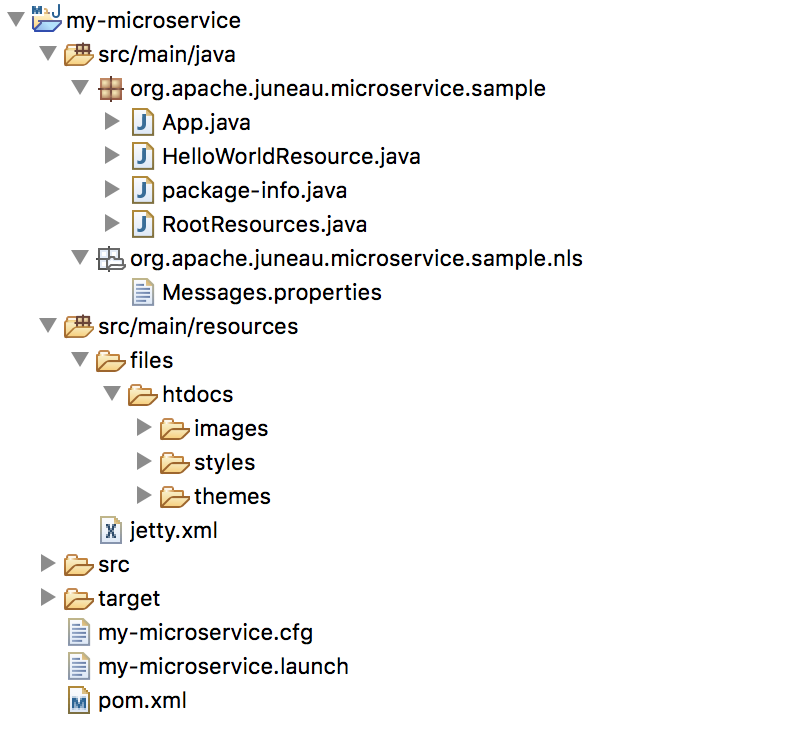
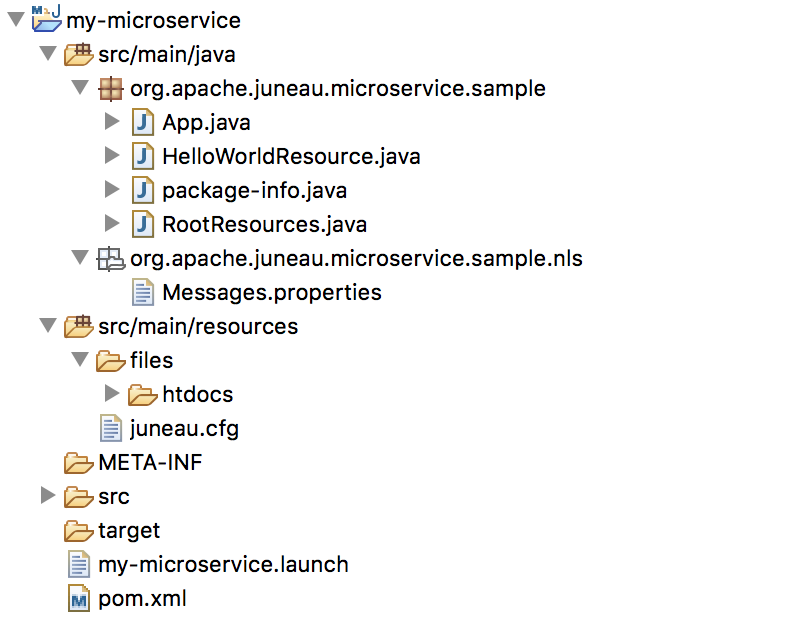
Rename @JuneauRest to @JuneauRestRoot and Javadocs.

Changed region(s): [[0.0, 0.0, 0.75, 1.0]]

diff --git a/juneau-doc/src/main/javadoc/overview.html b/juneau-doc/src/main/javadoc/overview.html
@@ -449,7 +449,7 @@
 	</ol>
 	<li><p class='todo'><a class='doclink' href='#juneau-examples-rest-springboot'>juneau-examples-rest-springboot</a></p>
 	<ol>
-		<li><p class='new'><a class='doclink' href='#juneau-examples-rest-springboot.Classes'>Classes</a></p>
+		<li><p class='todo'><a class='doclink' href='#juneau-examples-rest-springboot.Classes'>Classes</a></p>
 		<li><p class='todo'><a class='doclink' href='#juneau-examples-rest-springboot.DeployingToHeroku'>Deploying to Heroku</a></p>
 	</ol>
 	<li><p class='toc2'><a class='doclink' href='#Security'>Security Best-Practices</a></p>
@@ -21408,13 +21408,13 @@
 	The Juneau integration component for Spring Boot consists of the following classes:
 </p>
 <ul class='doctree'>
-	<li class='ja'>{@link org.apache.juneau.rest.springboot.annotation.JuneauRest}
+	<li class='ja'>{@link org.apache.juneau.rest.springboot.annotation.JuneauRestRoot}
 	<li class='jc'>{@link org.apache.juneau.rest.springboot.JuneauRestInitializer}
 	<li class='jc'>{@link org.apache.juneau.rest.springboot.SpringRestResourceResolver}
 </ul>
 <p>
 	A typical Spring Boot application can use the {@link org.apache.juneau.rest.springboot.JuneauRestInitializer} to find
-	and register Juneau REST servlets via the {@link org.apache.juneau.rest.springboot.annotation.JuneauRest} annotation.
+	and register Juneau REST servlets via the {@link org.apache.juneau.rest.springboot.annotation.JuneauRestRoot} annotation.
 </p>
 <h5 class='figure'>Example:</h5>
 <p class='bpcode w800'>
@@ -21429,23 +21429,23 @@
 		}
 	
 		<jd>/** Our root resource */</jd>
-		<ja>@Bean @JuneauRest</ja>
+		<ja>@Bean @JuneauRestRoot</ja>
 		<jk>public</jk> RootResource getRootResource() {
 			<jk>return new</jk> RootResource();  <jc>// A subclass of RestServlet.</jc>
 		}
 	}
 </p>
 <p>
-	The initializer will search for Spring beans annotated with the <ja>@JuneauRest</ja> annotation identifying it
+	The initializer will search for Spring beans annotated with the <ja>@JuneauRestRoot</ja> annotation identifying it
 	as a top-level servlet to be deployed in the Spring Boot web container.
 </p>
 <p>
-	Another option is to use the <ja>@JuneauRest</ja> annotation on your Spring Boot source class like so:  
+	Another option is to use the <ja>@JuneauRestRoot</ja> annotation on your Spring Boot source class like so:  
 </p>
 <p class='bpcode w800'>
 	<ja>@SpringBootApplication</ja>
 	<ja>@Controller</ja>
-	<ja>@JuneauRest</ja>(servlets=RootResource.<jk>class</jk>)
+	<ja>@JuneauRestRoot</ja>(servlets=RootResource.<jk>class</jk>)
 	<jk>public class</jk> App {
 	
 		<jk>public static void</jk> main(String[] args) {
@@ -25496,7 +25496,9 @@
 	<li>
 		<l>App.java</l> - The entry point. 
 		<br>This class creates and starts our microservice.
-		<br>Note that we're using the existing Spring Boot application logic for the microservice.
+		<br>Note that we're using the existing Spring Boot application logic for the microservice and we're retrieving
+		our root resource as a spring bean.
+		<br>Only the top-level resource needs to be annotated with {@link org.apache.juneau.microservice.springboot.annotation.JuneauRestRoot @JuneauRestRoot}
 		<br><br>
 		<p class='bcode w800'>
 	<ja>@SpringBootApplication</ja>
@@ -25509,7 +25511,7 @@
 				.run(args);
 		}
 	
-		<ja>@Bean @JuneauRest</ja>
+		<ja>@Bean @JuneauRestRoot</ja>
 		<jk>public</jk> RootResources getRootResources() {
 			<jk>return new</jk> RootResources();
 		}
@@ -25545,10 +25547,11 @@
 	}
 		</p>
 	<li>
-		<l>my-microservice.cfg</l> - The external configuration file. 
+		<l>juneau.cfg</l> - The configuration file. 
 		<br>Contains various useful settings.
 		<br>Can be used for your own resource configurations.
 		<br>Note that the Jetty configuration is not present.
+		<br>Also it's located in the classpath so that our microservice can be built as a single executable jar. 
 		<br><br>
 		<p class='bcode w800'>
 	<cc>#=======================================================================================================================
@@ -27864,7 +27867,7 @@
 
 <!-- ==================================================================================================== -->
 
-<h3 class='topic new' onclick='toggle(this)'><a href='#juneau-examples-rest-springboot.Classes' id='juneau-examples-rest-springboot.Classes'>18.1 - Classes</a></h3>
+<h3 class='topic todo' onclick='toggle(this)'><a href='#juneau-examples-rest-springboot.Classes' id='juneau-examples-rest-springboot.Classes'>18.1 - Classes</a></h3>
 <div class='topic'><!-- START: 18.1 - juneau-examples-rest-springboot.Classes -->
 <p>
 	The <code>juneau-examples-rest-springboot</code> project contains the same classes as found in <code>juneau-examples-rest</code>

diff --git a/juneau-doc/docs/Topics/09.juneau-rest-server-springboot/01.Overview.html b/juneau-doc/docs/Topics/09.juneau-rest-server-springboot/01.Overview.html
@@ -19,13 +19,13 @@
 	The Juneau integration component for Spring Boot consists of the following classes:
 </p>
 <ul class='doctree'>
-	<li class='ja'>{@link oajr.springboot.annotation.JuneauRest}
+	<li class='ja'>{@link oajr.springboot.annotation.JuneauRestRoot}
 	<li class='jc'>{@link oajr.springboot.JuneauRestInitializer}
 	<li class='jc'>{@link oajr.springboot.SpringRestResourceResolver}
 </ul>
 <p>
 	A typical Spring Boot application can use the {@link oajr.springboot.JuneauRestInitializer} to find
-	and register Juneau REST servlets via the {@link oajr.springboot.annotation.JuneauRest} annotation.
+	and register Juneau REST servlets via the {@link oajr.springboot.annotation.JuneauRestRoot} annotation.
 </p>
 <h5 class='figure'>Example:</h5>
 <p class='bpcode w800'>
@@ -40,23 +40,23 @@
 		}
 	
 		<jd>/** Our root resource */</jd>
-		<ja>@Bean @JuneauRest</ja>
+		<ja>@Bean @JuneauRestRoot</ja>
 		<jk>public</jk> RootResource getRootResource() {
 			<jk>return new</jk> RootResource();  <jc>// A subclass of RestServlet.</jc>
 		}
 	}
 </p>
 <p>
-	The initializer will search for Spring beans annotated with the <ja>@JuneauRest</ja> annotation identifying it
+	The initializer will search for Spring beans annotated with the <ja>@JuneauRestRoot</ja> annotation identifying it
 	as a top-level servlet to be deployed in the Spring Boot web container.
 </p>
 <p>
-	Another option is to use the <ja>@JuneauRest</ja> annotation on your Spring Boot source class like so:  
+	Another option is to use the <ja>@JuneauRestRoot</ja> annotation on your Spring Boot source class like so:  
 </p>
 <p class='bpcode w800'>
 	<ja>@SpringBootApplication</ja>
 	<ja>@Controller</ja>
-	<ja>@JuneauRest</ja>(servlets=RootResource.<jk>class</jk>)
+	<ja>@JuneauRestRoot</ja>(servlets=RootResource.<jk>class</jk>)
 	<jk>public class</jk> App {
 	
 		<jk>public static void</jk> main(String[] args) {

diff --git a/juneau-doc/docs/Topics/14.juneau-microservice-springboot-template/02.Running.html b/juneau-doc/docs/Topics/14.juneau-microservice-springboot-template/02.Running.html
@@ -13,7 +13,7 @@
  ***************************************************************************************************************************/
  -->
 
-{todo} Running in Eclipse
+{new} Running in Eclipse
 
 <p>
 	The <l>my-microservice.launch</l> file is already provided to allow you to quickly start
@@ -24,16 +24,26 @@
 	<br>In your console view, you should see the following output:
 </p>
 <p class='bpcode w800'>
-	TODO
+	  .   ____          _            __ _ _
+	 /\\ / ___'_ __ _ _(_)_ __  __ _ \ \ \ \
+	( ( )\___ | '_ | '_| | '_ \/ _` | \ \ \ \
+	 \\/  ___)| |_)| | | | | || (_| |  ) ) ) )
+	  '  |____| .__|_| |_|_| |_\__, | / / / /
+	 =========|_|==============|___/=/_/_/_/
+	 :: Spring Boot ::        (v2.0.1.RELEASE)
+	...
+	INFO: Tomcat started on port(s): 8080 (http) with context path ''
+	Dec 21, 2012 12:30:00 AM org.springframework.boot.StartupInfoLogger logStarted
+	INFO: Started App in 1.999 seconds (JVM running for 2.999)
 </p>
 <p>
-	Now open your browser and point to <l>http://localhost:5000</l>.  
+	Now open your browser and point to <l>http://localhost:8080</l>.  
 	You should see the following:
 </p>
 <p class='bpcode w400'>
-	http://localhost:5000
+	http://localhost:8080
 </p>			
 <img class='bordered w400' src='doc-files/juneau-microservice-springboot-template.Running.1.png'>
 <p>
-	You have started a REST interface on port 5000.
+	You have started a REST interface on port 8080.
 </p>

diff --git a/juneau-doc/docs/Topics/14.juneau-microservice-springboot-template/01.Installing.html b/juneau-doc/docs/Topics/14.juneau-microservice-springboot-template/01.Installing.html
@@ -13,7 +13,7 @@
  ***************************************************************************************************************************/
  -->
 
-{todo} Installing in Eclipse
+{new} Installing in Eclipse
 
 <p>
 	Follow these instructions to create a new template project in Eclipse.
@@ -38,7 +38,9 @@
 	<li>
 		<l>App.java</l> - The entry point. 
 		<br>This class creates and starts our microservice.
-		<br>Note that we're using the existing Spring Boot application logic for the microservice.
+		<br>Note that we're using the existing Spring Boot application logic for the microservice and we're retrieving
+		our root resource as a spring bean.
+		<br>Only the top-level resource needs to be annotated with {@link oaj.microservice.springboot.annotation.JuneauRestRoot @JuneauRestRoot}
 		<br><br>
 		<p class='bcode w800'>
 	<ja>@SpringBootApplication</ja>
@@ -51,7 +53,7 @@
 				.run(args);
 		}
 	
-		<ja>@Bean @JuneauRest</ja>
+		<ja>@Bean @JuneauRestRoot</ja>
 		<jk>public</jk> RootResources getRootResources() {
 			<jk>return new</jk> RootResources();
 		}

diff --git a/juneau-doc/docs/Topics/14.juneau-microservice-springboot-template/03.Building.html b/juneau-doc/docs/Topics/14.juneau-microservice-springboot-template/03.Building.html
@@ -13,7 +13,7 @@
  ***************************************************************************************************************************/
  -->
 
-{todo} Building and Running from Command-Line
+{new} Building and Running from Command-Line
 
 <p>
 	The <l>pom.xml</l> file is a basic Maven build script for creating your microservice
@@ -41,5 +41,15 @@
 	You should see the following console output:
 </p>
 <p class='bpcode w800'>
-	TODO
+	  .   ____          _            __ _ _
+	 /\\ / ___'_ __ _ _(_)_ __  __ _ \ \ \ \
+	( ( )\___ | '_ | '_| | '_ \/ _` | \ \ \ \
+	 \\/  ___)| |_)| | | | | || (_| |  ) ) ) )
+	  '  |____| .__|_| |_|_| |_\__, | / / / /
+	 =========|_|==============|___/=/_/_/_/
+	 :: Spring Boot ::        (v2.0.1.RELEASE)
+	...
+	INFO: Tomcat started on port(s): 8080 (http) with context path ''
+	Dec 21, 2012 12:30:00 AM org.springframework.boot.StartupInfoLogger logStarted
+	INFO: Started App in 1.999 seconds (JVM running for 2.999)
 </p>

diff --git a/juneau-doc/src/main/javadoc/resources/fragments/toc.html b/juneau-doc/src/main/javadoc/resources/fragments/toc.html
@@ -392,7 +392,7 @@
 	</ol>
 	<li><p class='todo'><a class='doclink' href='{OVERVIEW_URL}#juneau-examples-rest-springboot'>juneau-examples-rest-springboot</a></p>
 	<ol>
-		<li><p class='new'><a class='doclink' href='{OVERVIEW_URL}#juneau-examples-rest-springboot.Classes'>Classes</a></p>
+		<li><p class='todo'><a class='doclink' href='{OVERVIEW_URL}#juneau-examples-rest-springboot.Classes'>Classes</a></p>
 		<li><p class='todo'><a class='doclink' href='{OVERVIEW_URL}#juneau-examples-rest-springboot.DeployingToHeroku'>Deploying to Heroku</a></p>
 	</ol>
 	<li><p class='toc2'><a class='doclink' href='{OVERVIEW_URL}#Security'>Security Best-Practices</a></p>

diff --git a/juneau-rest/juneau-rest-server-springboot/src/main/java/org/apache/juneau/rest/springboot/JuneauRestPostProcessor.java b/juneau-rest/juneau-rest-server-springboot/src/main/java/org/apache/juneau/rest/springboot/JuneauRestPostProcessor.java
@@ -28,7 +28,7 @@ import java.util.*;
 import javax.servlet.Servlet;
 
 /**
- * Processes the {@link JuneauRest} annotation on the Spring application class and <ja>@Bean</ja> methods.
+ * Processes the {@link JuneauRestRoot} annotation on the Spring application class and <ja>@Bean</ja> methods.
  */
 public class JuneauRestPostProcessor implements BeanDefinitionRegistryPostProcessor {
 
@@ -57,25 +57,25 @@ public class JuneauRestPostProcessor implements BeanDefinitionRegistryPostProces
 		try {
 			Map<String,RestServlet> m = new LinkedHashMap<>();
 
-			// @JuneauRest on App class.
+			// @JuneauRestRoot on App class.
 			if (appClass != null) {
-				JuneauRest a = appClass.getAnnotation(JuneauRest.class);
+				JuneauRestRoot a = appClass.getAnnotation(JuneauRestRoot.class);
 				if (a != null)
 					for (Class<? extends RestServlet> c : a.servlets())
 						m.put(c.getName(), c.newInstance());
 			}
 
-			// @JuneauRest on classes.
-			for (Map.Entry<String,Object> e : beanFactory.getBeansWithAnnotation(JuneauRest.class).entrySet())
+			// @JuneauRestRoot on classes.
+			for (Map.Entry<String,Object> e : beanFactory.getBeansWithAnnotation(JuneauRestRoot.class).entrySet())
 				if (e.getValue() instanceof RestServlet)
 					m.put(e.getKey(), (RestServlet) e.getValue());
 
-			// @JuneauRest on @Bean method.
+			// @JuneauRestRoot on @Bean method.
 			for (String beanName : beanFactory.getBeanNamesForType(RestServlet.class)) {
 				BeanDefinition bd = beanFactory.getBeanDefinition(beanName);
 				if (bd.getSource() instanceof AnnotatedTypeMetadata) {
 					AnnotatedTypeMetadata metadata = (AnnotatedTypeMetadata) bd.getSource();
-					if (metadata.isAnnotated(JuneauRest.class.getName()))
+					if (metadata.isAnnotated(JuneauRestRoot.class.getName()))
 						m.put(beanName, (RestServlet) beanFactory.getBean(beanName));
 				}
 			}

diff --git a/juneau-rest/juneau-rest-server-springboot/src/main/java/org/apache/juneau/rest/springboot/JuneauRestInitializer.java b/juneau-rest/juneau-rest-server-springboot/src/main/java/org/apache/juneau/rest/springboot/JuneauRestInitializer.java
@@ -20,7 +20,7 @@ import org.springframework.context.ConfigurableApplicationContext;
  * Spring Boot context initializer for Juneau REST resources.
  *
  * <p>
- * Looks for the {@link JuneauRest} annotation on the Spring application class to automatically register Juneau REST resources.
+ * Looks for the {@link JuneauRestRoot} annotation on the Spring application class to automatically register Juneau REST resources.
  */
 public class JuneauRestInitializer implements ApplicationContextInitializer<ConfigurableApplicationContext> {
 

diff --git a/juneau-rest/juneau-rest-server-springboot/src/main/java/org/apache/juneau/rest/springboot/annotation/JuneauRestRoot.java b/juneau-rest/juneau-rest-server-springboot/src/main/java/org/apache/juneau/rest/springboot/annotation/JuneauRestRoot.java
@@ -36,7 +36,7 @@ import java.lang.annotation.*;
 @Retention(RUNTIME)
 @Documented
 @Inherited
-public @interface JuneauRest {
+public @interface JuneauRestRoot {
 
 	/**
 	 * Specifies one or more implementations of {@link RestServlet} to deploy as servlets.

diff --git a/juneau-microservice/juneau-microservice-springboot-template/src/main/java/org/apache/juneau/microservice/sample/RootResources.java b/juneau-microservice/juneau-microservice-springboot-template/src/main/java/org/apache/juneau/microservice/sample/RootResources.java
@@ -24,7 +24,7 @@ import org.apache.juneau.rest.widget.ThemeMenuItem;
  * Root microservice page.
  */
 @RestResource(
-	path="/",
+	path="/*",
 	title="My Microservice",
 	description="Top-level resources page",
 	htmldoc=@HtmlDoc(

diff --git a/juneau-microservice/juneau-microservice-springboot-template/src/main/java/org/apache/juneau/microservice/sample/App.java b/juneau-microservice/juneau-microservice-springboot-template/src/main/java/org/apache/juneau/microservice/sample/App.java
@@ -40,7 +40,7 @@ public class App {
 	/**
 	 * @return Our root resource.
 	 */
-	@Bean @JuneauRest
+	@Bean @JuneauRestRoot
 	public RootResources getRootResources() {
 		return new RootResources();
 	}

diff --git a/juneau-examples/juneau-examples-rest-springboot/src/main/java/org/apache/juneau/examples/rest/springboot/App.java b/juneau-examples/juneau-examples-rest-springboot/src/main/java/org/apache/juneau/examples/rest/springboot/App.java
@@ -36,7 +36,7 @@ public class App {
 	/**
 	 * Our root resource.
 	 */
-	@Bean @JuneauRest
+	@Bean @JuneauRestRoot
 	public RootResources getRootResources() {
 		return new RootResources();
 	}
